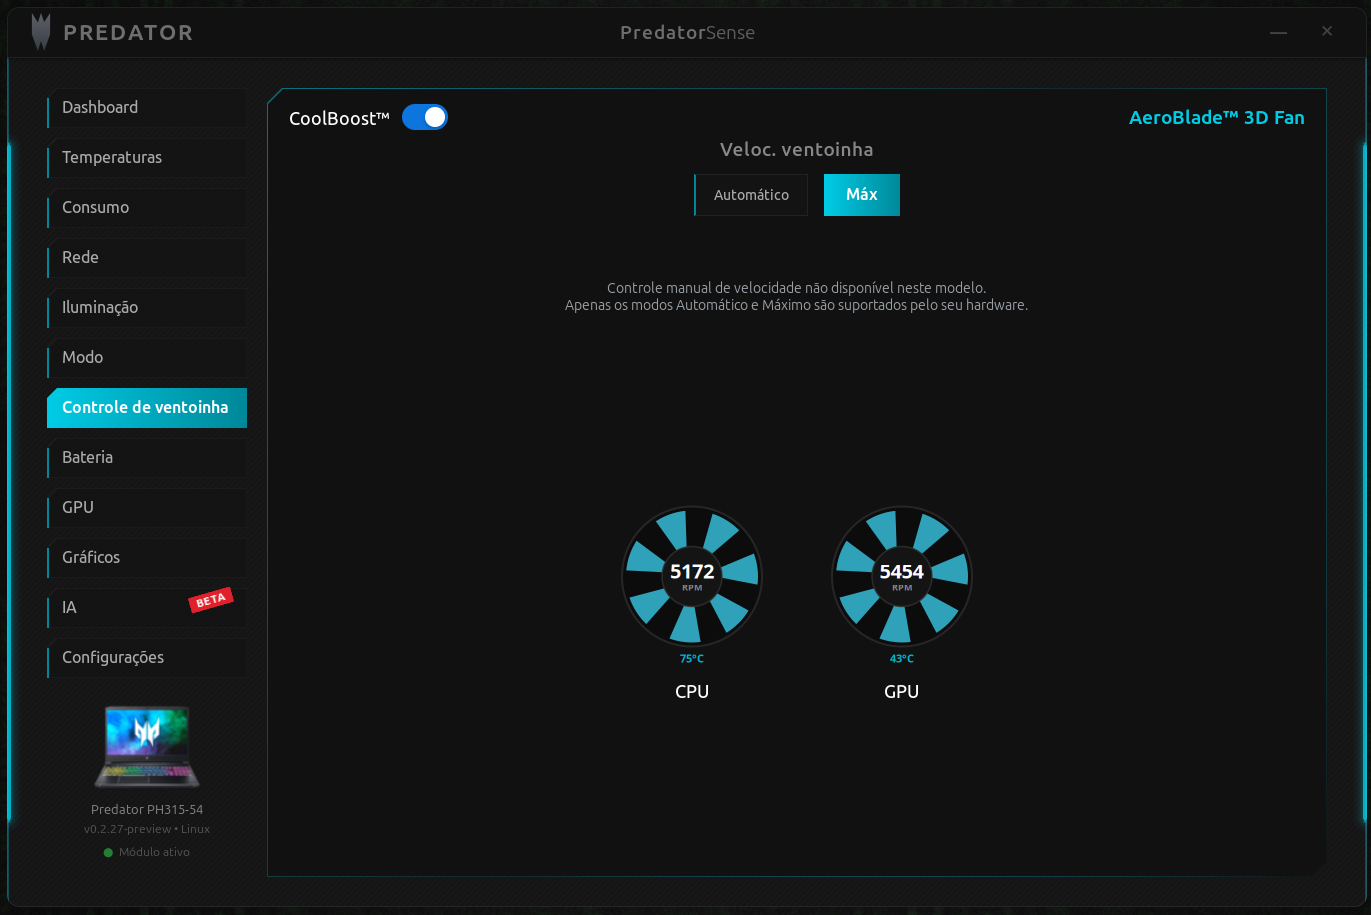
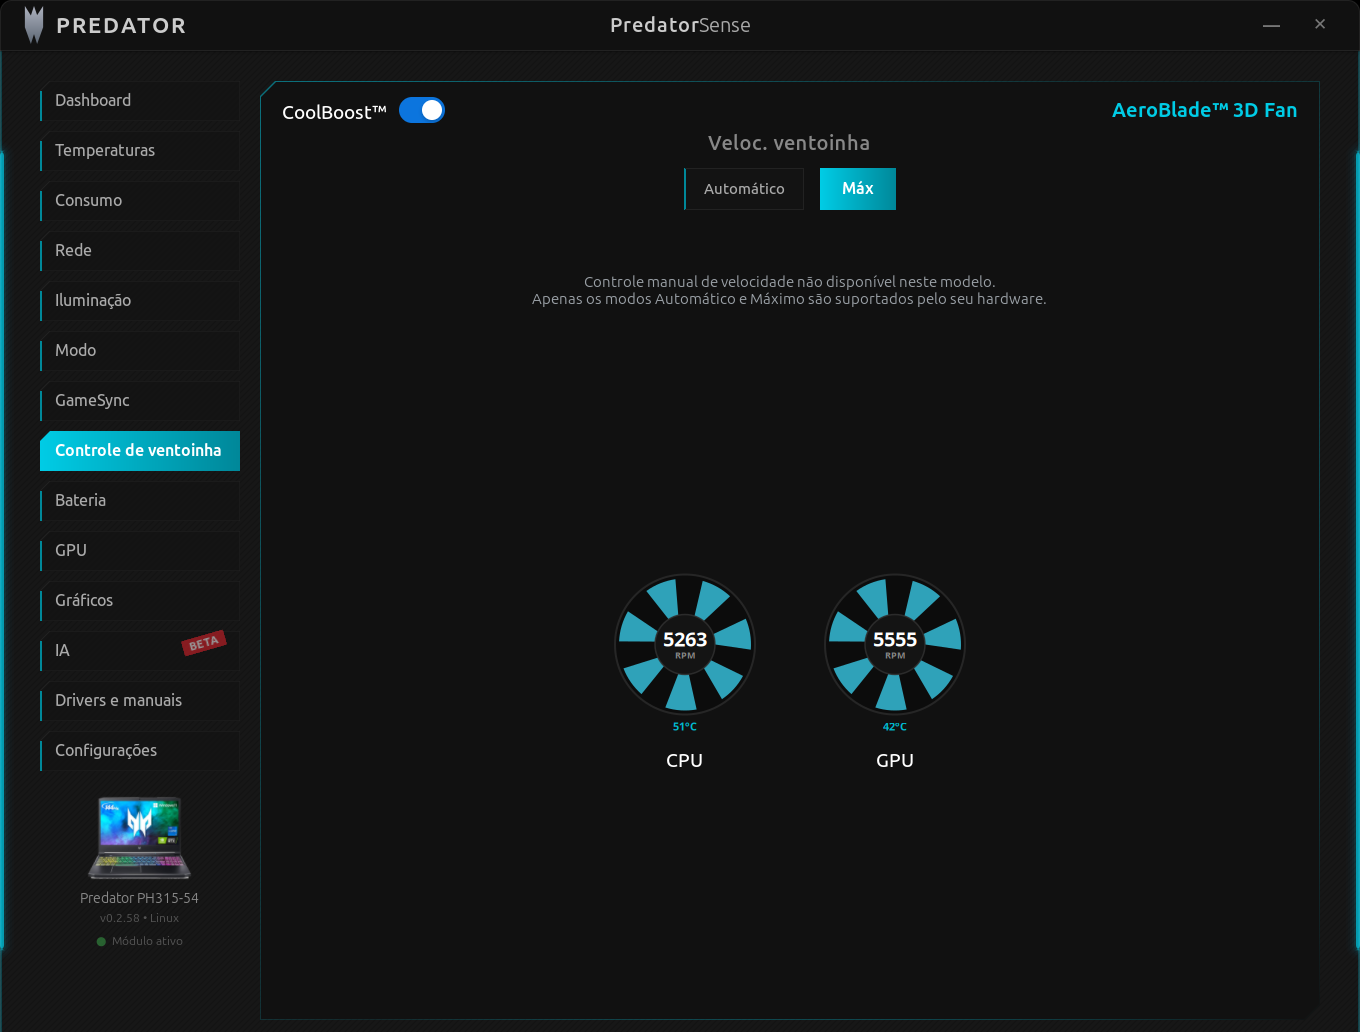
📸 docs: refresh all screenshots, add GameSync and Drivers e manuais
psense-1 through psense-12 were still showing the pre-icons,
pre-custom-icons UI - regenerated all 12 against the current build
(v0.2.58), plus two new ones for pages that didn't exist yet when the
originals were taken: psense-15 (GameSync) and psense-16 (Drivers e
manuais), added right after Modes and after AI Assistant respectively
in both READMEs (numbering skips 13/14, already used by the cover-logo
photos further down).

Captured with a new .docs/scripts/capture_screenshots.sh (not shipped,
gitignored like the model-photo scripts) that drives the real running
app via the Up/Down keyboard navigation just added to window.rs,
instead of per-item pixel-coordinate clicks that would have needed
re-calibrating every time the window size or sidebar changes.

diff --git a/README-ptbr.md b/README-ptbr.md
@@ -64,6 +64,9 @@ Se este app/projeto te ajudou e/ou gostou de alguma forma, considere deixar uma 
 <p align="center"><b>Modos</b> — Perfis de desempenho: Silencioso, Balanceado, Performance e Turbo (CPU governor + Intel EPP + limite de potência da GPU).</p>
 <p align="center"><img src="assets/psense-6.png" width="800" alt="Modos"></p>
 
+<p align="center"><b>GameSync</b> — Cadastre um jogo e o perfil desejado; o app troca automaticamente enquanto o jogo está rodando e restaura o que estava ativo antes assim que ele fecha.</p>
+<p align="center"><img src="assets/psense-15.png" width="800" alt="GameSync"></p>
+
 <p align="center"><b>Controle de Ventoinha</b> — RPM ao vivo com animação girando, toggle do CoolBoost e modos Auto/Max.</p>
 <p align="center"><img src="assets/psense-7.png" width="800" alt="Controle de Ventoinha"></p>
 
@@ -78,6 +81,9 @@ Se este app/projeto te ajudou e/ou gostou de alguma forma, considere deixar uma 
 
 <p align="center"><b>Assistente de IA (beta)</b> — Assistente de IA local via Ollama: chat, gerenciador de modelos (listar instalados, baixar novos, escolher qual roda), consumo de recurso/VRAM ao vivo enquanto ele pensa, e log de ações persistente.</p>
 <p align="center"><img src="assets/psense-11.png" width="800" alt="Assistente de IA"></p>
+
+<p align="center"><b>Drivers e manuais</b> — Mostra o número de série (com botão de copiar) e um link direto pra página oficial de drivers e manuais da Acer, além de uma ilustração de onde achar a etiqueta do número de série no notebook.</p>
+<p align="center"><img src="assets/psense-16.png" width="800" alt="Drivers e manuais"></p>
 
 <p align="center"><b>Configurações</b> — Minimizar para a bandeja, iniciar com o sistema, aplicar perfil automaticamente no início, preferências de idioma, e lista de recursos suportados por modelo.</p>
 <p align="center"><img src="assets/psense-12.png" width="800" alt="Configurações"></p>

diff --git a/README.md b/README.md
@@ -64,6 +64,9 @@ If this app/project helped you and/or you liked it in some way, consider leaving
 <p align="center"><b>Modes</b> — Performance profiles: Quiet, Balanced, Performance and Turbo (CPU governor + Intel EPP + GPU power limit).</p>
 <p align="center"><img src="assets/psense-6.png" width="800" alt="Modes"></p>
 
+<p align="center"><b>GameSync</b> — Register a game and its profile; the app switches to it automatically while the game is running and restores whatever was active before once it exits.</p>
+<p align="center"><img src="assets/psense-15.png" width="800" alt="GameSync"></p>
+
 <p align="center"><b>Fan Control</b> — Live RPM with animated spinning fans, CoolBoost toggle and Auto/Max modes.</p>
 <p align="center"><img src="assets/psense-7.png" width="800" alt="Fan Control"></p>
 
@@ -78,6 +81,9 @@ If this app/project helped you and/or you liked it in some way, consider leaving
 
 <p align="center"><b>AI Assistant (beta)</b> — Local AI assistant powered by Ollama: chat, model manager (list installed models, download new ones, pick which one runs), live VRAM/GPU resource usage while it's thinking, and a persistent action log.</p>
 <p align="center"><img src="assets/psense-11.png" width="800" alt="AI Assistant"></p>
+
+<p align="center"><b>Drivers and manuals</b> — Shows the serial number (with a copy button) and a direct link to Acer's official drivers-and-manuals page, plus an illustration of where to find the serial number sticker on the laptop.</p>
+<p align="center"><img src="assets/psense-16.png" width="800" alt="Drivers and manuals"></p>
 
 <p align="center"><b>Settings</b> — Minimize to tray, start on boot, auto-apply profile on start, language preferences, and per-model supported-features list.</p>
 <p align="center"><img src="assets/psense-12.png" width="800" alt="Settings"></p>
